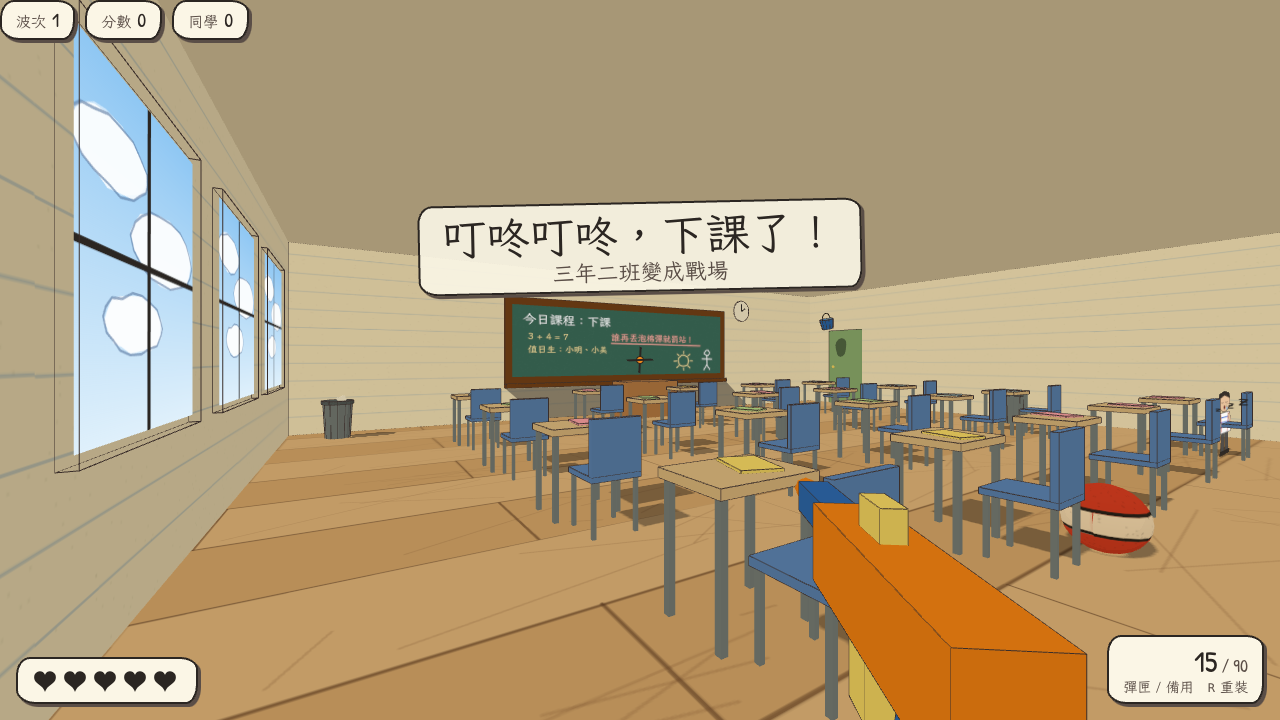
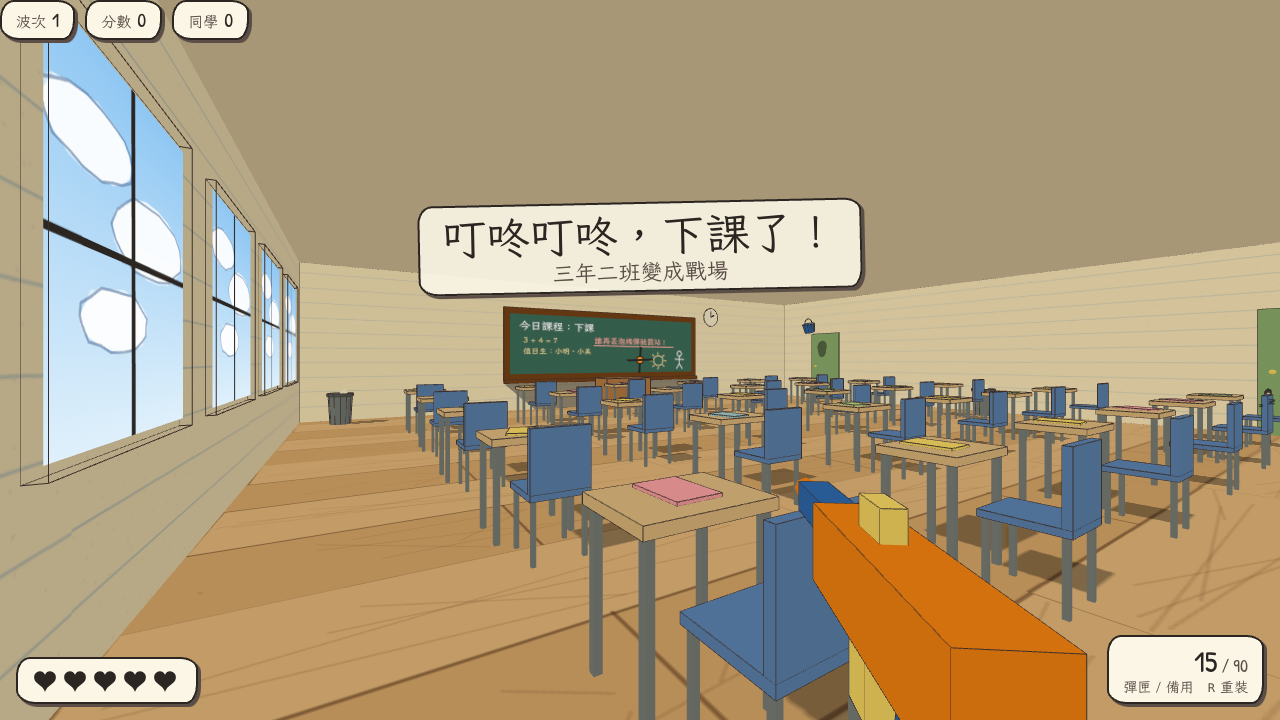
教室改成一班 30 人：6 欄 5 排、房間 14 × 12.5 m，走道維持 1 m
Claude-Session: https://claude.ai/code/session_01JhYTsN25smVCe6zoC6MjkF

diff --git a/src/layouts.js b/src/layouts.js
@@ -5,24 +5,24 @@
 const r2 = (v) => Math.round(v * 100) / 100;
 
 function classroom() {
-  // 5 columns 2.0 m apart, 4 rows 1.9 m apart: a desk plus its chair is 0.91 m deep, so every aisle is at least 0.99 m wide (player 0.56)
-  const cols = [-4.0, -2.0, 0, 2.0, 4.0], rows = [-3.0, -1.1, 0.8, 2.7];
+  // a class of 30: 6 columns 2.0 m apart, 5 rows 1.9 m apart. A desk plus its chair is 0.91 m deep, so every aisle is at least 0.99 m wide (player 0.56)
+  const cols = [-5.0, -3.0, -1.0, 1.0, 3.0, 5.0], rows = [-3.8, -1.9, 0, 1.9, 3.8];
   const desks = [], furniture = [];
   for (const x of cols) for (const z of rows) { desks.push({ x, z, w: 0.62, d: 0.46, h: 0.72, seat: { x, z: z + 0.48 } }); furniture.push({ kind: 'desk', x, z }); }
-  furniture.push({ kind: 'podium', x: 0, z: -4.5, w: 1.3, d: 0.65, h: 0.78 });
-  furniture.push({ kind: 'cupboard', x: 4.9, z: 4.95, w: 1.4, d: 0.5, h: 1.9 });
-  furniture.push({ kind: 'bulletin', x: -2.8, z: 5.23 });
+  furniture.push({ kind: 'podium', x: 0, z: -5.5, w: 1.3, d: 0.65, h: 0.78 });
+  furniture.push({ kind: 'cupboard', x: 5.4, z: 5.95, w: 1.4, d: 0.5, h: 1.9 });
+  furniture.push({ kind: 'bulletin', x: -2.8, z: 6.23 });
   return {
-    id: 'classroom', name: '三年二班', w: 13, d: 10.5, h: 3.2, style: 'classroom',
-    doors: [{ x: 6.1, z: -4.0 }, { x: 6.1, z: 4.0 }], windows: [-3.3, -1.1, 1.1, 3.3],
-    start: { x: -5.6, z: 4.4, yaw: -0.55 }, front: -3.5, board: { w: 5.6, h: 1.5, style: 'chalk' },
-    desks, furniture, props: [{ kind: 'trash', x: -5.8, z: -4.6 }, { kind: 'trash', x: 5.6, z: 0.3 }, { kind: 'bucket', door: 0 }],
+    id: 'classroom', name: '三年二班', w: 14, d: 12.5, h: 3.2, style: 'classroom',
+    doors: [{ x: 6.6, z: -4.5 }, { x: 6.6, z: 4.5 }], windows: [-4.4, -2.2, 0, 2.2, 4.4],
+    start: { x: -6.1, z: 5.3, yaw: -0.55 }, front: -4.4, board: { w: 5.6, h: 1.5, style: 'chalk' },
+    desks, furniture, props: [{ kind: 'trash', x: -6.3, z: -5.6 }, { kind: 'trash', x: 6.1, z: 0.3 }, { kind: 'bucket', door: 0 }],
     mounts: [
-      { x: -2.4, y: 2.0, z: -5.16, ry: 0 }, { x: -0.8, y: 1.35, z: -5.16, ry: 0 }, { x: 1.8, y: 1.25, z: -5.16, ry: 0 }, { x: 2.6, y: 2.05, z: -5.16, ry: 0 },
-      { x: -3.6, y: 1.85, z: 5.16, ry: Math.PI }, { x: -2.1, y: 1.5, z: 5.16, ry: Math.PI },
-      { x: 4.9, y: 1.55, z: 4.68, ry: Math.PI },
-      { x: -6.46, y: 2.75, z: -1.5, ry: Math.PI / 2 }, { x: -6.46, y: 2.75, z: 1.5, ry: Math.PI / 2 },
-      { x: 6.46, y: 1.7, z: 0, ry: -Math.PI / 2 },
+      { x: -2.4, y: 2.0, z: -6.21, ry: 0 }, { x: -0.8, y: 1.35, z: -6.21, ry: 0 }, { x: 1.8, y: 1.25, z: -6.21, ry: 0 }, { x: 2.6, y: 2.05, z: -6.21, ry: 0 },
+      { x: -3.6, y: 1.85, z: 6.21, ry: Math.PI }, { x: -2.1, y: 1.5, z: 6.21, ry: Math.PI },
+      { x: 5.4, y: 1.55, z: 5.68, ry: Math.PI },
+      { x: -6.96, y: 2.75, z: -2.0, ry: Math.PI / 2 }, { x: -6.96, y: 2.75, z: 2.0, ry: Math.PI / 2 },
+      { x: 6.96, y: 1.7, z: 0, ry: -Math.PI / 2 },
     ],
   };
 }

diff --git a/DESIGN.md b/DESIGN.md
@@ -211,7 +211,7 @@
 
 ### 4.5-4 動線順一下（回饋：場景中間的東西讓移動不順）
 - 判定：玩家是半徑 0.28 m 的圓，任何窄於 0.6 m 的縫都過不去、剛好 0.6 m 的會卡。檢查後找到幾處真的太窄：自然教室的圓凳到下一張實驗桌只有 0.57 m；音樂教室內圈 7 張椅子間距只有 0.53 m，弧的兩端又和鋼琴、定音鼓只差 0.25 到 0.45 m；活動中心的體操墊壓在長椅尾端和樓梯之間，把兩側走道封死，球車擋在正中央走道；操場的輪胎 5 個只隔 5 cm，等於一道 4 m 的牆。
-- 版面：教室改 5 欄 2.0 m、4 排 1.9 m（走道至少 0.99 m）；自然教室排距 2.2 m、圓凳收到桌邊（0.84 m）；音樂教室改 6／8／10 張椅子、弧距 1.4 m、扇角縮小，鋼琴和定音鼓往牆邊挪（椅間至少 0.7 m，弧間 1.0 m）；活動中心體操墊移到舞台前兩側、球車上舞台後方、垃圾桶改放前方角落，兩側走道與樓梯口全開；操場輪胎改 4 個、間隔 0.7 m。
+- 版面：教室改成一班 30 人：6 欄 2.0 m、5 排 1.9 m（走道至少 0.99 m），房間跟著放大到 14 × 12.5 m，講桌、櫃子、佈告欄、牆上掛物與門窗一起外移；自然教室排距 2.2 m、圓凳收到桌邊（0.84 m）；音樂教室改 6／8／10 張椅子、弧距 1.4 m、扇角縮小，鋼琴和定音鼓往牆邊挪（椅間至少 0.7 m，弧間 1.0 m）；活動中心體操墊移到舞台前兩側、球車上舞台後方、垃圾桶改放前方角落，兩側走道與樓梯口全開；操場輪胎改 4 個、間隔 0.7 m。
 - 碰撞：課桌和椅子之間原本留 5 cm 的縫，圓會卡進去，改成一個連續的腳印；推出碰撞盒做兩次，被 A 推出去不會再卡進 B；單椅、圓凳的碰撞盒縮小（0.36／0.32 m）。
 - 驗證：`tools/flow-test.cjs` 在每張地圖直線穿過修過的縫（都走到底），`classroom-aisles-test` 四條直排與三條橫排走道全通。
 
